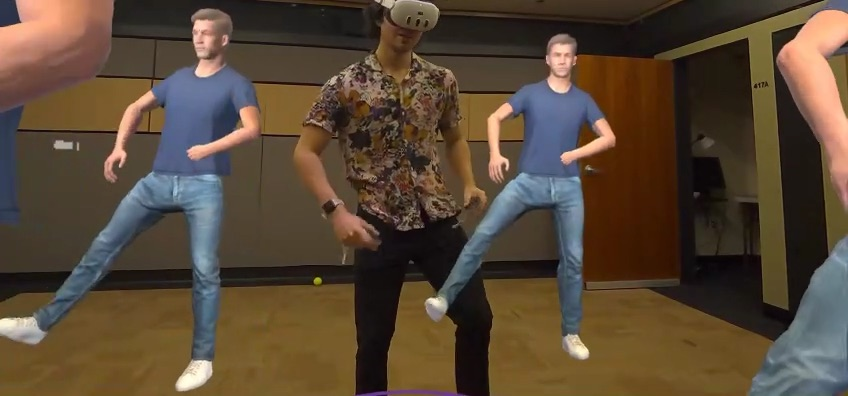
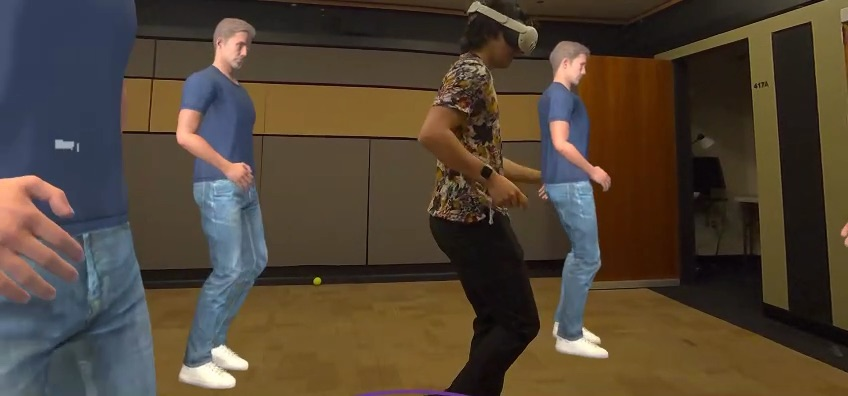
A clip the browser will not start offers its play button
He saw the Dance troupe pair as still pictures and asked whether they were
videos any more. They are, and they play in Chrome, but his browser
refused to start them on its own. Safari does that in Low Power Mode or
when the site is set to Never Auto-Play. Before the posters went in, a
refused clip showed blank; with them it shows a still that looks like a
photo. Every place rbv.html starts a clip now goes through playOrOffer():
if play() is refused with NotAllowedError, that clip gets its controls, so
it can be started by hand. Clips that play normally are untouched.

He also asked for stills that tell the story if the clip does not play: a
bad moment for Day 1 and a better one for Day 3, perhaps side profile.
Day 1 stays at 2.0 s, the clearest mismatch (he kicks with his arms out
while both copies stand straight with their arms down). Day 3 moves to
5.0 s: side profile, mid-step, with both copies matching his bent knees.

VERIFIED in headless Chrome with play() forced to reject (as Safari does):
the clips that tried to start (hero, Day 1, Day 3) got controls. A normal
run gives no controls and the visible clips play. Both stills were checked
side by side.

diff --git a/rbv.html b/rbv.html
@@ -1372,6 +1372,18 @@
 
     initA11yLineHighlight('.hero-title, .meta-value, .story p, .block-label, .block-body p, .tile figcaption');
 
+    /* A browser can refuse to start a muted clip on its own: Safari does in
+       Low Power Mode or with Auto-Play set to Never for the site. Then the
+       clip sat on its still and looked like a picture (his report). When
+       play() is refused, give that clip its controls so it can be started
+       by hand. */
+    function playOrOffer(v) {
+      var p = v.play();
+      if (p && p.catch) p.catch(function (err) {
+        if (err && err.name === 'NotAllowedError') v.controls = true;
+      });
+    }
+
     /* ─── CLIPS: PLAY ONLY WHILE ON SCREEN ───
        Five muted loops (~8 MB together) would all download at once if every
        one carried `autoplay`. Instead each plays when it scrolls into view and
@@ -1387,12 +1399,12 @@
         return;
       }
       if (!('IntersectionObserver' in window)) {
-        clips.forEach(function (v) { v.play().catch(function () {}); });
+        clips.forEach(function (v) { playOrOffer(v); });
         return;
       }
       var io = new IntersectionObserver(function (entries) {
         entries.forEach(function (e) {
-          if (e.isIntersecting) e.target.play().catch(function () {});
+          if (e.isIntersecting) playOrOffer(e.target);
           else e.target.pause();
         });
       }, { threshold: 0.25 });
@@ -1429,7 +1441,7 @@
         btns.forEach(function (b) { b.setAttribute('aria-pressed', b.dataset.occ === which ? 'true' : 'false'); });
         var v = shown();
         try { v.currentTime = 0; } catch (e) {}
-        if (onScreen && !still) v.play().catch(function () {});
+        if (onScreen && !still) playOrOffer(v);
       }
 
       btns.forEach(function (b) { b.addEventListener('click', function () { show(b.dataset.occ); }); });
@@ -1439,11 +1451,11 @@
         new IntersectionObserver(function (entries) {
           onScreen = entries[0].isIntersecting;
           if (still) return;
-          if (onScreen) shown().play().catch(function () {});
+          if (onScreen) playOrOffer(shown());
           else shown().pause();
         }, { threshold: 0.25 }).observe(stage);
       } else if (!still) {
-        onScreen = true; shown().play().catch(function () {});
+        onScreen = true; playOrOffer(shown());
       }
     })();
 
